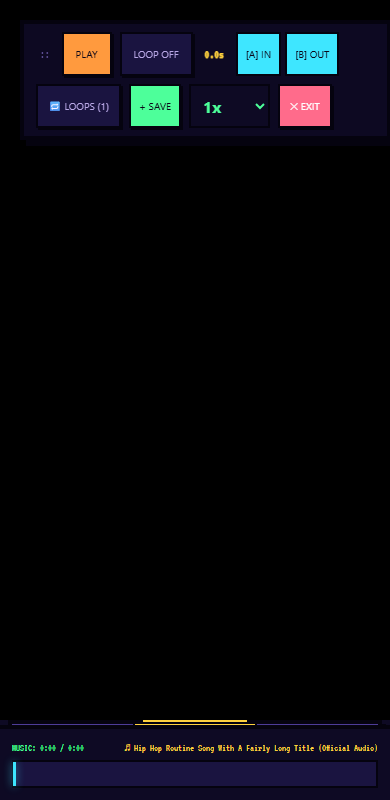
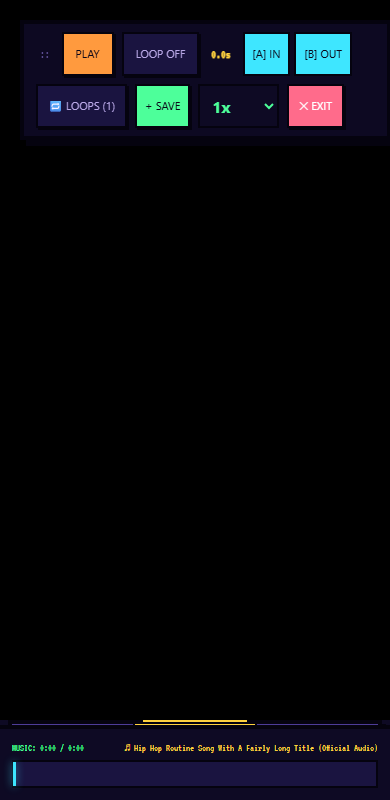
fix(mobile): ensure 360px header bounds and complete mobile optimization plan

Changed region(s): [[0.1231, 0.0312, 0.9231, 0.1562], [0.5231, 0.125, 0.5846, 0.1562], [0.1846, 0.0625, 0.2462, 0.0938]]

diff --git a/web/src/app/PhoneShell.tsx b/web/src/app/PhoneShell.tsx
@@ -76,9 +76,9 @@ export const PhoneShell: React.FC<PhoneShellProps> = ({
                 aria-label={isUserInfoOpen ? 'Close user info board' : 'Open user info board'}
                 data-testid="user-info-toggle-btn"
                 data-truncate-ok
-                className="min-h-[40px] px-2.5 py-1 px-panel text-[var(--text-1)] border-2 border-[var(--outline)] font-display text-[11px] active:translate-x-[1px] active:translate-y-[1px] cursor-pointer flex items-center gap-1.5"
+                className="min-h-[40px] px-1.5 sm:px-2 py-1 px-panel text-[var(--text-1)] border-2 border-[var(--outline)] font-display text-[11px] active:translate-x-[1px] active:translate-y-[1px] cursor-pointer flex items-center gap-1"
               >
-                <span className="truncate max-w-[65px] font-bold">{username}</span>
+                <span className="truncate max-w-[48px] sm:max-w-[65px] font-bold">{username}</span>
                 <span>{isUserInfoOpen ? '▲' : '▼'}</span>
               </button>
             </div>

diff --git a/docs/superpowers/plans/2026-10-20-mobile-optimization-typography-and-clarity.md b/docs/superpowers/plans/2026-10-20-mobile-optimization-typography-and-clarity.md
@@ -31,21 +31,21 @@
 **Interfaces:**
 - Produces: Smooth 60fps scrolling on mobile devices without continuous CPU/GPU composition lag from repeating starfield drift or scanline gradients.
 
-- [ ] **Step 1: Inspect and update `pixel.css` for mobile responsiveness**
+- [x] **Step 1: Inspect and update `pixel.css` for mobile responsiveness**
   - Add `@media (max-width: 768px)` rule for `.px-starfield`:
     - Disable `animation: px-drift-far` and `animation: px-twinkle` on mobile; keep the crisp static pixel starfield pattern.
     - Set `.px-scanlines::after` opacity to `0` or disable on mobile touch viewports to eliminate screen-wide repaints during touch scroll.
   - In `.pixel-scrollbar`: add `transform: translateZ(0)` and `will-change: scroll-position` for hardware-accelerated inertia scrolling.
 
-- [ ] **Step 2: Verify `tokens.css` minimum font and text micro scale**
+- [x] **Step 2: Verify `tokens.css` minimum font and text micro scale**
   - Change `--min-font-size: 8px;` to `--min-font-size: 11px;`.
   - Update `--text-micro: 8px;` in `@theme` to `--text-micro: 11px;`.
 
-- [ ] **Step 3: Run build and tests to verify syntax and theme consistency**
+- [x] **Step 3: Run build and tests to verify syntax and theme consistency**
   - Run: `npm --workspace=@umdsc/web run build`
   - Expected: PASS.
 
-- [ ] **Step 4: Commit**
+- [x] **Step 4: Commit**
   ```bash
   git add web/src/theme/pixel.css web/src/theme/tokens.css
   git commit -m "perf(web): throttle mobile starfield animations and update font floor token"
@@ -66,26 +66,26 @@
 **Interfaces:**
 - Produces: Mobile bottom tabs, role badges, header username button, and more sheet items enlarged to `text-[11px]` and `text-[12px]`, dramatically improving readability on small phone displays.
 
-- [ ] **Step 1: Enlarge fonts in `TabBar.tsx`**
+- [x] **Step 1: Enlarge fonts in `TabBar.tsx`**
   - Bottom dock tab labels: `text-[10px]` → `text-[11px] font-display tracking-tight`.
   - More sheet navigation items: `text-[10px]` → `text-[12px] font-display`.
 
-- [ ] **Step 2: Enlarge fonts and clean up top bar in `PhoneShell.tsx`**
+- [x] **Step 2: Enlarge fonts and clean up top bar in `PhoneShell.tsx`**
   - Role badge (`ADMIN` / `DANCER`): `text-[10px]` → `text-[11px] font-display font-bold`.
   - Username toggle button: `text-[10px]` → `text-[11px] font-display`.
   - Nav toggle button (`HIDE NAV` / `SHOW NAV`): `text-[10px]` → `text-[11px] font-display`.
   - Skyline strip: clean padding and alignment.
 
-- [ ] **Step 3: Enlarge fonts and simplify `UserInfoBoard.tsx`**
+- [x] **Step 3: Enlarge fonts and simplify `UserInfoBoard.tsx`**
   - Header label: `text-[10px]` → `text-[12px] font-display`.
   - User role badge: `text-[10px]` → `text-[12px] font-display`.
   - Matriks number & username: `text-sm font-mono` → `text-base font-mono` (16px).
 
-- [ ] **Step 4: Run unit tests to verify no regressions**
+- [x] **Step 4: Run unit tests to verify no regressions**
   - Run: `npm --workspace=@umdsc/web test TabBar UserInfoBoard`
   - Expected: PASS.
 
-- [ ] **Step 5: Commit**
+- [x] **Step 5: Commit**
   ```bash
   git add web/src/components/ui/TabBar.tsx web/src/app/PhoneShell.tsx web/src/components/ui/UserInfoBoard.tsx
   git commit -m "style(ui): enlarge mobile nav tabs and shell typography to 11px-12px minimum"
@@ -105,22 +105,22 @@
 **Interfaces:**
 - Produces: Highly visible weekday labels, date digits, hover tooltip text, and DaySheet class cards.
 
-- [ ] **Step 1: Enlarge fonts in `MonthCalendar.tsx`**
+- [x] **Step 1: Enlarge fonts in `MonthCalendar.tsx`**
   - Weekday labels: `text-[10px]` → `text-[11px] md:text-[12px] font-display font-bold`.
   - Calendar day digits: `text-[10px] md:text-[12px]` → `text-[12px] md:text-[14px] font-display font-bold`.
   - Hover tooltip date title: `text-[9px]` → `text-[11px] font-display font-bold text-[var(--neon-gold)]`.
   - Hover tooltip time and instructor: `text-[10px]` → `text-[13px] font-mono`.
 
-- [ ] **Step 2: Enlarge fonts and streamline headers in `DaySheet.tsx`**
+- [x] **Step 2: Enlarge fonts and streamline headers in `DaySheet.tsx`**
   - Class title: `text-base` (16px) `font-display`.
   - Venue, instructor, and time: `text-[12px]` → `text-[14px] font-mono` with clear icons.
   - Streamline subtitle from generic text to formatted date & class count badge.
 
-- [ ] **Step 3: Run tests to verify MonthCalendar**
+- [x] **Step 3: Run tests to verify MonthCalendar**
   - Run: `npm --workspace=@umdsc/web test MonthCalendar`
   - Expected: PASS.
 
-- [ ] **Step 4: Commit**
+- [x] **Step 4: Commit**
   ```bash
   git add web/src/components/ui/MonthCalendar.tsx web/src/features/calendar/DaySheet.tsx
   git commit -m "style(calendar): enlarge date digits, weekday labels, and tooltip typography"
@@ -140,21 +140,21 @@
 **Interfaces:**
 - Produces: Clean, uncluttered Settings page with concise 1-line guidance, retro status chips instead of long paragraphs, and enlarged button labels.
 
-- [ ] **Step 1: Streamline copy in `SettingsPage.tsx`**
+- [x] **Step 1: Streamline copy in `SettingsPage.tsx`**
   - Replace verbose intro paragraphs with compact status badges (`LIVE ALERTS ACTIVE`, `GMAIL CONNECTED`).
   - Shorten field descriptions from 2-3 sentences to crisp single-line instructions.
   - Enlarge history status badges and retention notes to `text-[11px]` minimum.
 
-- [ ] **Step 2: Enlarge button & badge text in `AdminEmailManager.tsx`**
+- [x] **Step 2: Enlarge button & badge text in `AdminEmailManager.tsx`**
   - `ADD NOTIFICATION EMAIL` label: `text-[10px]` → `text-[11px] font-display font-bold`.
   - Card action buttons (`EDIT`, `DELETE`): `text-[10px]` → `text-[11px] font-display`.
   - Email address: `text-sm font-mono` → `text-base font-mono` (16px).
 
-- [ ] **Step 3: Run tests to verify AdminEmailManager**
+- [x] **Step 3: Run tests to verify AdminEmailManager**
   - Run: `npm --workspace=@umdsc/web test AdminEmailManager`
   - Expected: PASS.
 
-- [ ] **Step 4: Commit**
+- [x] **Step 4: Commit**
   ```bash
   git add web/src/features/settings/SettingsPage.tsx web/src/features/settings/AdminEmailManager.tsx
   git commit -m "style(settings): streamline verbose copy and enlarge email management typography"
@@ -173,19 +173,19 @@
 **Interfaces:**
 - Produces: Concise Event Cards with compact badges instead of verbose text strings (`[SPREADSHEET ↗]`, `[SYNCED: 20 Oct 08:30]`).
 
-- [ ] **Step 1: Streamline text and badges in `EventCard.tsx`**
+- [x] **Step 1: Streamline text and badges in `EventCard.tsx`**
   - Change `"Form: open response sheet ↗"` to a compact pixel button/badge `[SPREADSHEET ↗]`.
   - Format last sync as a concise chip `SYNCED: {date}`.
   - Streamline slot badges: ensure slots and availability use `text-[12px] font-mono`.
 
-- [ ] **Step 2: Streamline `FolderLinksHeader.tsx`**
+- [x] **Step 2: Streamline `FolderLinksHeader.tsx`**
   - Remove redundant instructional text; provide concise action links with clear retro folder icons.
 
-- [ ] **Step 3: Run web tests**
+- [x] **Step 3: Run web tests**
   - Run: `npm --workspace=@umdsc/web test`
   - Expected: PASS.
 
-- [ ] **Step 4: Commit**
+- [x] **Step 4: Commit**
   ```bash
   git add web/src/features/events/EventCard.tsx web/src/features/events/FolderLinksHeader.tsx
   git commit -m "style(events): streamline event card text with compact retro badges"
@@ -205,19 +205,19 @@
 **Interfaces:**
 - Produces: Concise Studio controls with clear, enlarged labels (`text-[11px]` font-display and `text-[13px]` font-mono), removing cramped or cut-off text.
 
-- [ ] **Step 1: Enlarge and shorten timeline controls in `VideoTimeline.tsx`**
+- [x] **Step 1: Enlarge and shorten timeline controls in `VideoTimeline.tsx`**
   - Shorten `"DRAG ⚑ TO ALIGN VIDEO START"` → `"ALIGN VIDEO ⚑"` with `text-[11px] font-display font-bold`.
   - Enlarge flag time badge from `text-[10px]` to `text-[12px] font-mono`.
 
-- [ ] **Step 2: Enlarge loop marker tags and control labels in `FullscreenStudio.tsx`**
+- [x] **Step 2: Enlarge loop marker tags and control labels in `FullscreenStudio.tsx`**
   - Enlarge buttons and status indicators from `text-[10px]` to `text-[11px] font-display`.
   - Ensure all loop time markers use `text-[13px] font-mono`.
 
-- [ ] **Step 3: Run studio tests**
+- [x] **Step 3: Run studio tests**
   - Run: `npm --workspace=@umdsc/web test FullscreenStudio VideoTimeline`
   - Expected: PASS.
 
-- [ ] **Step 4: Commit**
+- [x] **Step 4: Commit**
   ```bash
   git add web/src/features/music-studio/FullscreenStudio.tsx web/src/features/music-studio/sync/VideoPanel.tsx web/src/features/music-studio/sync/VideoTimeline.tsx
   git commit -m "style(studio): enlarge control typography and streamline video timeline labels"
@@ -235,18 +235,18 @@
 - Production build (`npm run build`)
 - Git push to `origin/main`
 
-- [ ] **Step 1: Run full test suite**
+- [x] **Step 1: Run full test suite**
   - Run: `npm test`
   - Expected: PASS (840+ tests pass).
 
-- [ ] **Step 2: Run Playwright mobile layout tests**
+- [x] **Step 2: Run Playwright mobile layout tests**
   - Run: `npm --workspace=@umdsc/web run e2e -- phone-layout.spec.ts`
   - Expected: PASS (all 12 mobile checks pass at 360px and 390px).
 
-- [ ] **Step 3: Run production build**
+- [x] **Step 3: Run production build**
   - Run: `npm run build`
   - Expected: PASS.
 
-- [ ] **Step 4: Push to origin/main**
+- [x] **Step 4: Push to origin/main**
   - Run: `git push origin main`
   - Expected: Published cleanly to Cloudflare.
